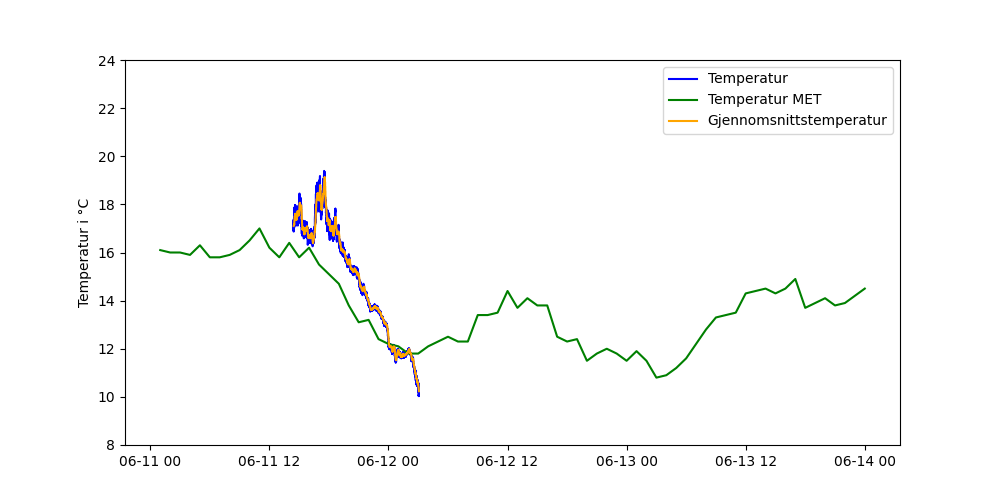
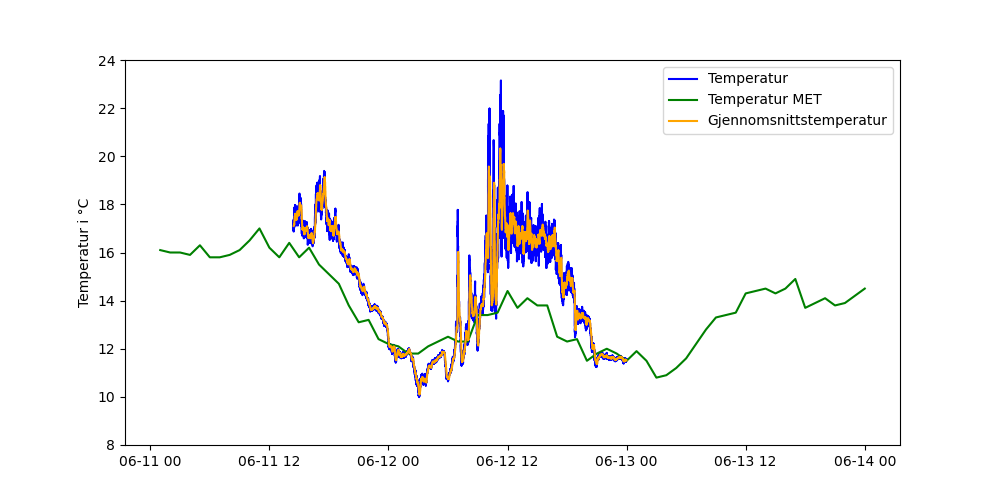
endret sluttverdi i Fil 1 åpning

diff --git a/Fil1_Aapning.py b/Fil1_Aapning.py
@@ -2,7 +2,7 @@ import datetime as dt
 
 
 #startverdi = 0
-sluttverdi = 45700
+sluttverdi = 121000
 
 
 #startverdi_str = str(startverdi)
@@ -45,5 +45,5 @@ def fil1data(sluttverdi_str):
 tid_fra_start1, dato_tid1_str, dato_tid1_dt, trykk_bar1, abs_trykk1, temperatur1 = fil1data(sluttverdi_str)
 
 
-
+print(len(dato_tid1_dt))
 

diff --git a/plot.py b/plot.py
@@ -38,3 +38,5 @@ plt.ylabel("Temperatur i °C")
 plt.legend()
 plt.savefig("Temperatur_plot.png")
 plt.show()
+
+print(len(dato_tid1_dt))
